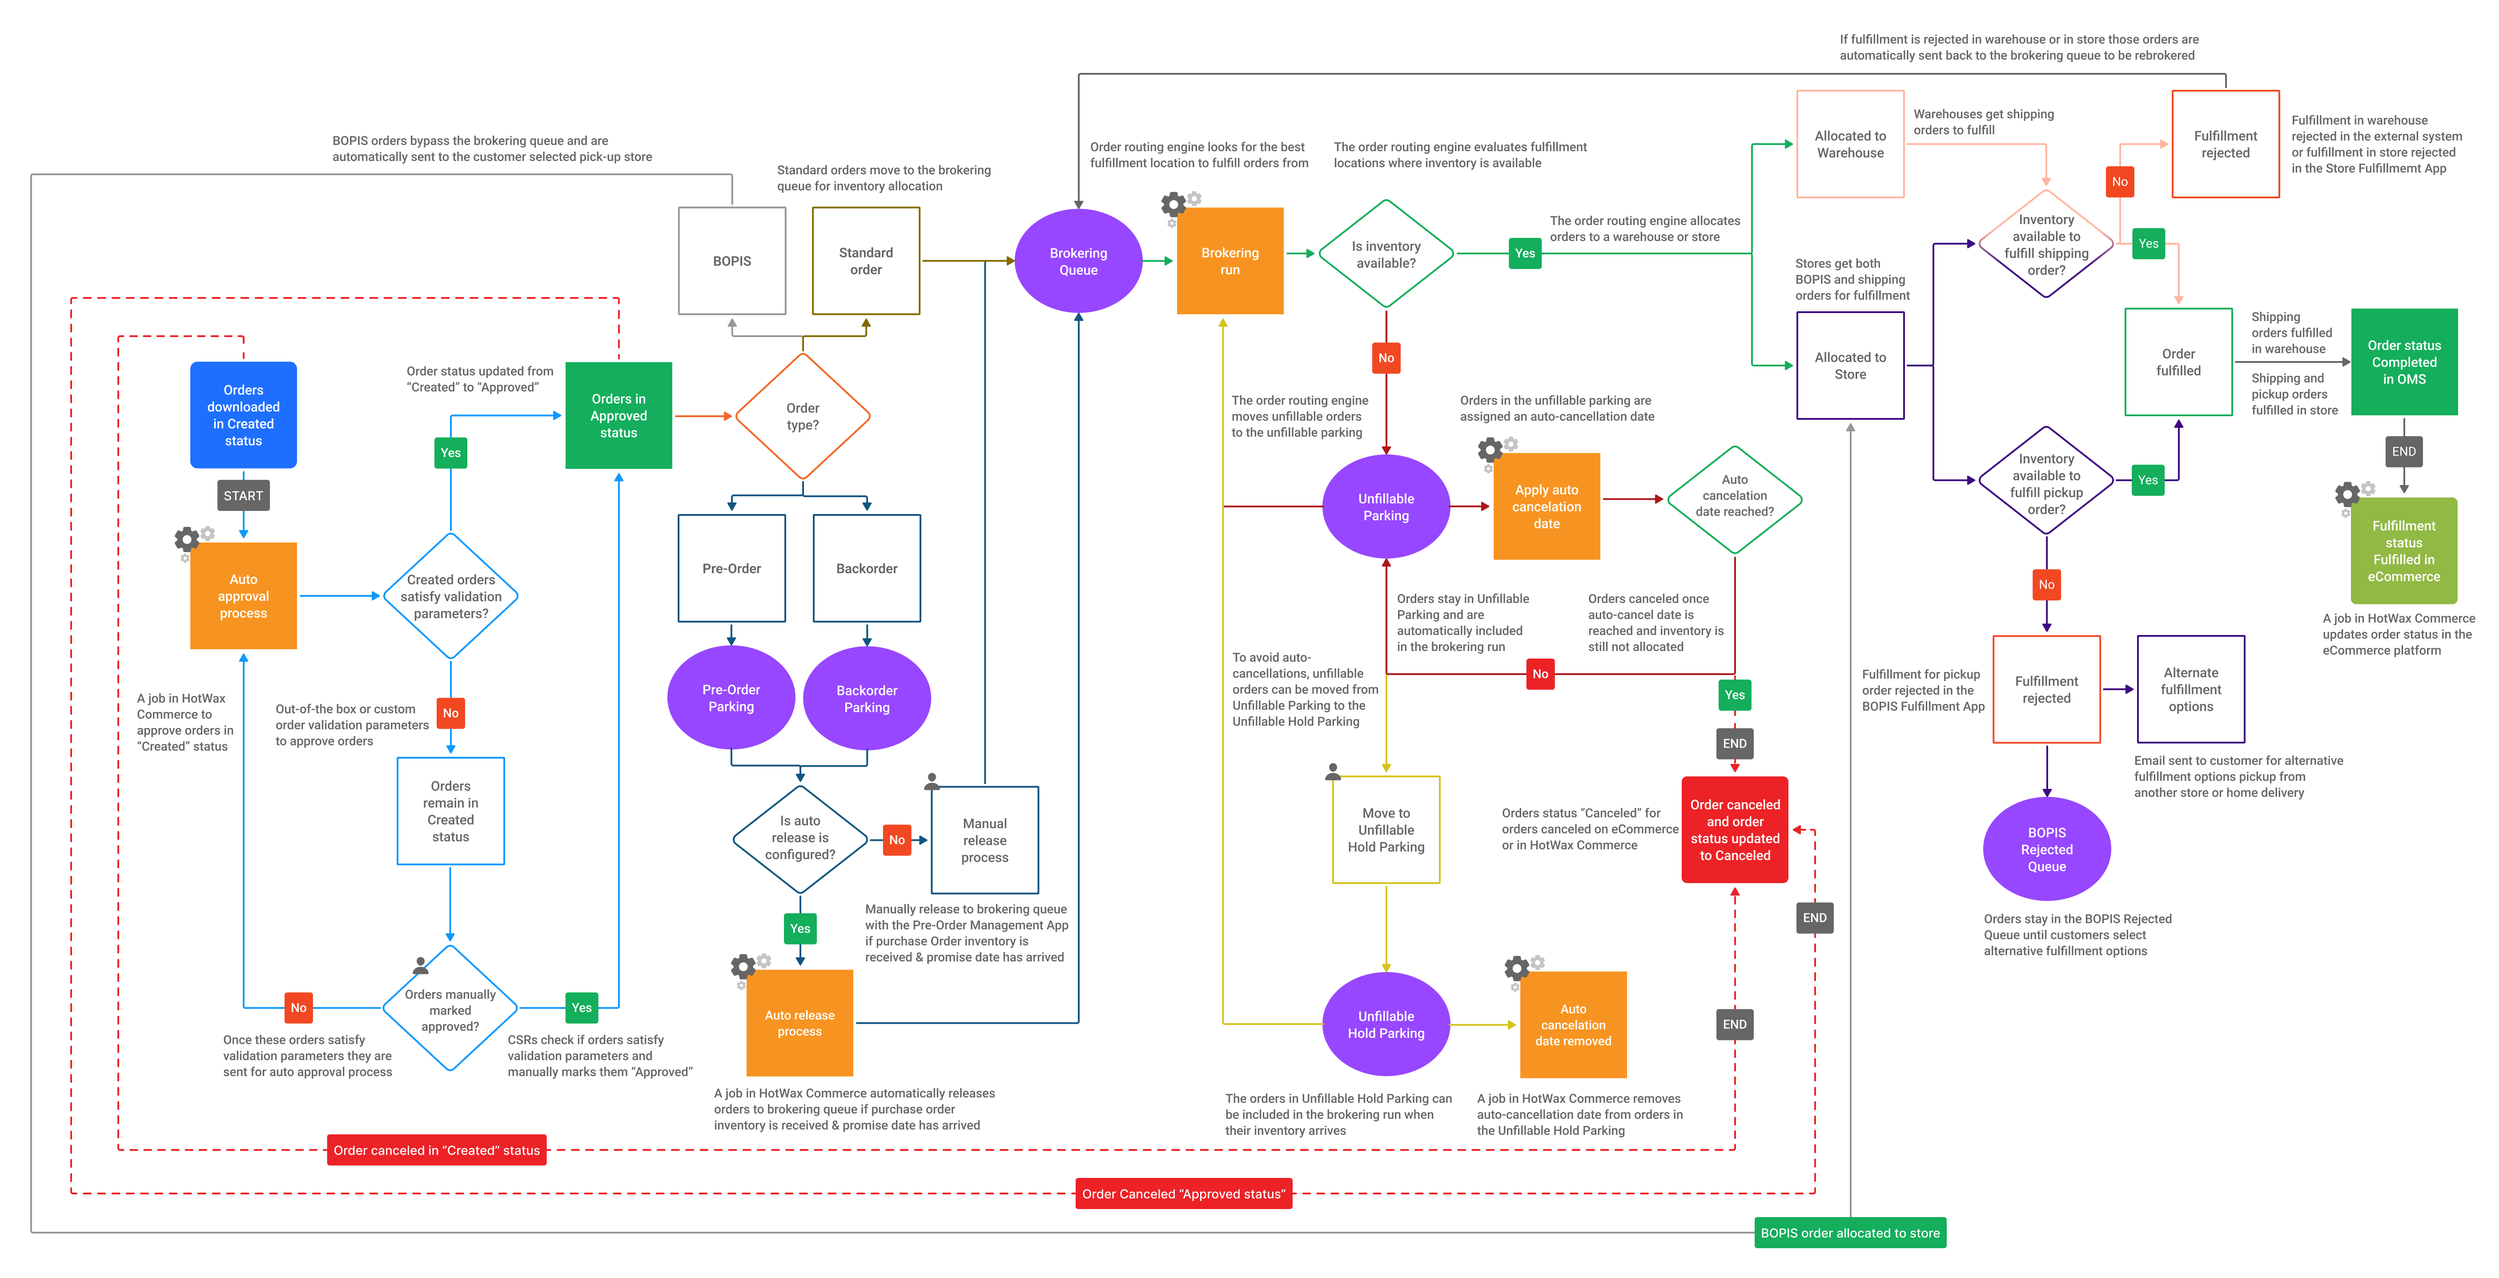
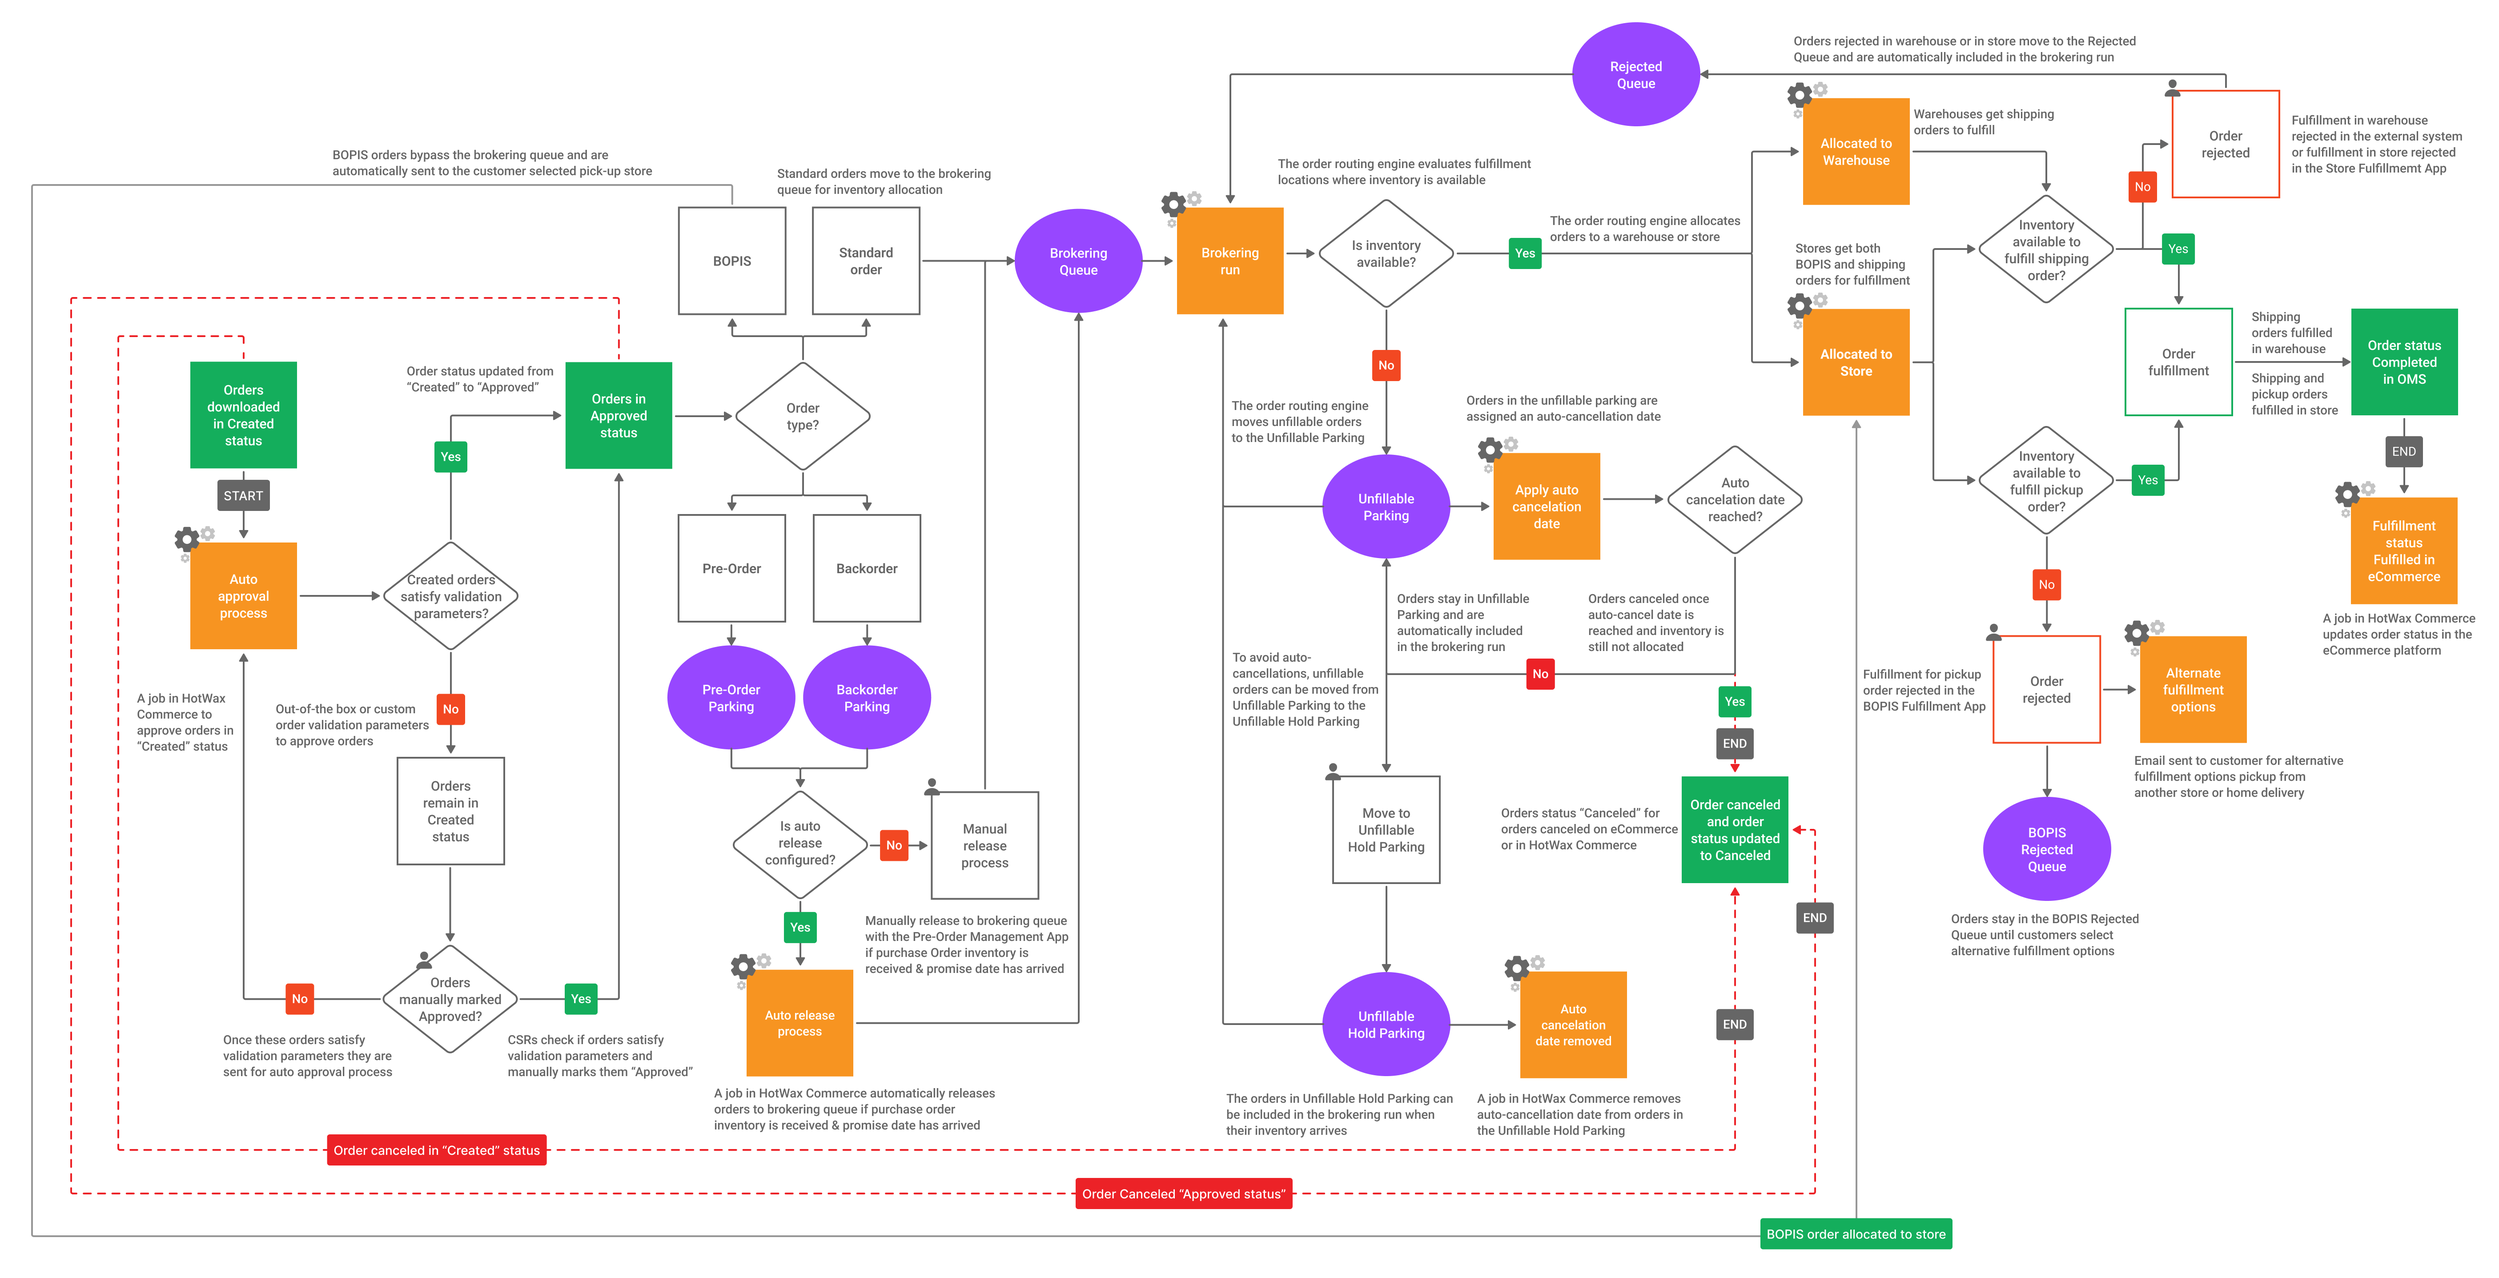
GITBOOK-237: updates order lifecycle image

diff --git a/user-manuals/SUMMARY.md b/user-manuals/SUMMARY.md
@@ -46,31 +46,31 @@
 * [Order management](orders/order-management/README.md)
   * [Find Sales orders](orders/order-management/find-sales-orders.md)
   * [View Order Details](orders/order-management/view-order-details.md)
-  * [Update orders](orders/order-management/update-sales-order.md)
-  * [Allocation](orders/order-management/allocate-sales-order.md)
-  * [Soft allocation](orders/order-management/soft-allocations.md)
+  * [Update orders](orders/order-management/update-orders.md)
+  * [Allocation](orders/order-management/allocation.md)
+  * [Soft allocation](orders/order-management/soft-allocation.md)
   * [Reports](orders/order-management/reports.md)
-* [BOPIS Fulfillment App](bopis/README.md)
-  * [Orders Page](orders/bopis/appnotifications/README.md)
-    * [Notifications](orders/bopis/appnotifications/notifications.md)
-    * [Search Order](orders/bopis/appnotifications/search-order.md)
-    * [Open Order Tab](orders/bopis/appnotifications/open-order-tab.md)
-  * [Order Details Page](orders/bopis/order-details-page/README.md)
-    * [View Order Item Rejection History](orders/bopis/order-details-page/view-order-item-rejection-history.md)
-  * [Packed Order Tab](orders/bopis/packed-order-tab.md)
-  * [Completed Orders Tab](orders/bopis/completed-orders-tab.md)
-  * [Ship to Store](orders/bopis/ship-to-store.md)
-  * [Catalog Page](orders/bopis/catalog-page.md)
-  * [Settings Page](orders/bopis/settings-page.md)
+* [BOPIS Fulfillment App](orders/bopis-fulfillment-app/README.md)
+  * [Orders Page](orders/bopis-fulfillment-app/orders-page/README.md)
+    * [Notifications](orders/bopis-fulfillment-app/orders-page/notifications.md)
+    * [Search Order](orders/bopis-fulfillment-app/orders-page/search-order.md)
+    * [Open Order Tab](orders/bopis-fulfillment-app/orders-page/open-order-tab.md)
+  * [Order Details Page](orders/bopis-fulfillment-app/order-details-page/README.md)
+    * [View Order Item Rejection History](orders/bopis-fulfillment-app/order-details-page/view-order-item-rejection-history.md)
+  * [Packed Order Tab](orders/bopis-fulfillment-app/packed-order-tab.md)
+  * [Completed Orders Tab](orders/bopis-fulfillment-app/completed-orders-tab.md)
+  * [Ship to Store](orders/bopis-fulfillment-app/ship-to-store.md)
+  * [Catalog Page](orders/bopis-fulfillment-app/catalog-page.md)
+  * [Settings Page](orders/bopis-fulfillment-app/settings-page.md)
 * [Fulfillment](orders/fulfillment/README.md)
-  * [Ship Orders](fulfillment/shipOrders.md)
-  * [Rejection](fulfillment/rejection.md)
-  * [Picking App](fulfillment/pickingApp.md)
-  * [CSV Support](fulfillment/csvSupport.md)
-  * [Settings Page](fulfillment/fulfillment-setting-page.md)
-  * [Reports](fulfillment/reports.md)
-  * [Create Shipping Boxes](fulfillment/shipping-box.md)
-  * [Create Pickers](fulfillment/add-picker.md)
+  * [Ship Orders](orders/fulfillment/ship-orders.md)
+  * [Rejection](orders/fulfillment/rejection.md)
+  * [Picking App](orders/fulfillment/picking-app.md)
+  * [CSV Support](orders/fulfillment/csv-support.md)
+  * [Settings Page](orders/fulfillment/settings-page.md)
+  * [Reports](orders/fulfillment/reports.md)
+  * [Create Shipping Boxes](orders/fulfillment/create-shipping-boxes.md)
+  * [Create Pickers](orders/fulfillment/create-pickers.md)
 * [Brokering](orders/brokering/README.md)
   * [Order Routing](brokering/configurableRouting.md)
   * [Rule Builder](brokering/rule-builder.md)
@@ -92,22 +92,22 @@
 
 * [Inventory Management](inventory/inventory-management/README.md)
   * [Find Product Inventory](inventory/inventory-management/find-product-inventory.md)
-  * [Product Inventory View Page](inventory/inventory-management/product-inventory-view.md)
+  * [Product Inventory View Page](inventory/inventory-management/product-inventory-view-page.md)
   * [Inventory Configurations](inventory/inventory-management/inventory-configurations.md)
 * [Receiving](inventory/receiving/README.md)
-  * [Inventory Receiving](receiving/receiving.md)
-  * [Reports](receiving/reports.md)
+  * [Inventory Receiving](inventory/receiving/inventory-receiving.md)
+  * [Reports](inventory/receiving/reports.md)
 * [Cycle counting](inventory/cycle-counting/README.md)
-  * [Inventory count](inventory-count/inventory-count.md)
-  * [Reports](inventory-count/reports.md)
+  * [Inventory count](inventory/cycle-counting/inventory-count.md)
+  * [Reports](inventory/cycle-counting/reports.md)
 * [Inventory upload](import-app/inventory.md)
 * [Safety stock](inventory/safety-stock/README.md)
   * [Set Bulk Safety Stock](inventory/safety-stock/set-bulk-safety-stock.md)
   * [Set Individual Safety Stock](inventory/safety-stock/set-individual-safety-stock.md)
 * [Multichannel inventory setup](inventory/multichannel-inventory-setup.md)
-* [Transfer orders](inventory/transfer-order/transfer-order-management.md)
-  * [Transfer order fulfillment](inventory/transfer-order/transfer-order-fulfillment.md)
-  * [Transfer order receiving](inventory/transfer-order/transfer-order-receiving.md)
+* [Transfer orders](inventory/transfer-orders/README.md)
+  * [Transfer order fulfillment](inventory/transfer-orders/transfer-order-fulfillment.md)
+  * [Transfer order receiving](inventory/transfer-orders/transfer-order-receiving.md)
 * [Reports](inventory/reports.md)
 
 ## Administration
@@ -139,10 +139,6 @@
 ## How-to documents
 
 * [How to configure HotWax Commerce when deploying new instance](how-to/deployment/deployment.md)
-* [How to map shipping method in HotWax Commerce to Netsuite](how-to/add-shipping-method.md)
+* [How to map shipping method in HotWax Commerce to Netsuite](how-to-documents/how-to-map-shipping-method-in-hotwax-commerce-to-netsuite.md)
 * [How to configure BOPIS with HotWax Commerce and Shopify](how-to/bopis/implement-bopis.md)
 * [How to manage order cancellations](how-to/order-cancellations.md)
-
-
-
- 

diff --git a/user-manuals/inventory/receiving/reports.md b/user-manuals/inventory/receiving/reports.md
@@ -4,33 +4,5 @@ description: >-
   alignment between expected and received quantities.
 ---
 
-# Receiving Reports
+# Reports
 
-## Discrepancy Tracking for Fulfilled Transfer Orders
-
-Reports designed to meticulously monitor and manage discrepancies arising from fulfilled transfer orders. In essence, it serves as a comprehensive oversight tool to ensure the actual receipt aligns accurately with the expected shipped quantities.
-
-## Receiving Discrepancy report
-
-Monitor and identify discrepancies at facilities where the actual receipt does not align with the expected shipped amount. This systematic approach allows for a meticulous tracking of fulfilled transfer orders, ensuring that the actual receipt quantities are in sync with the expectations. Facilities reporting higher discrepancies are strategically prioritized, enabling a focused investigation into potential issues.
-
-**In case of NetSuite**
-
-In the context of NetSuite, this monitoring system becomes particularly beneficial. By aligning the actual receipt with the expected shipped amount from NetSuite for fulfilled transfer orders, organizations gain a targeted insight into the accuracy of their inventory management.
-
-**User:** Operations team
-
-| Field                     | Detials                                                           |
-| ------------------------- | ----------------------------------------------------------------- |
-| Shipment\_Id              | The ID of the shipment in external system                         |
-| HotWax\_Shipment\_Id      | The ID of the shipment in HotWax                                  |
-| Transfer\_Order           | The ID of the transfer order in external system                   |
-| SKU                       | Unique identifier                                                 |
-| Origin\_Facility\_Id      | The ID of the origin facility where the shipment originates       |
-| Origin\_Facility          | The name of the facility where the shipment originates            |
-| Destination\_Facility\_Id | The ID of the destination facility where the shipment is destined |
-| Destination\_Facility     | The name of the facility where the shipment is destined           |
-| Expected                  | Quantity expected to be shipped                                   |
-| Recieved                  | Quantity actually received                                        |
-| Difference                | Variance between expected and actual quantities                   |
-| Status                    | Current status of the shipment                                    |

diff --git a/user-manuals/how-to/deployment/deployment.md b/user-manuals/how-to/deployment/deployment.md
@@ -54,7 +54,7 @@ Solr, an open-source enterprise search platform, provides powerful search capabi
 
 ## Add Shipping Gateways
 
-HotWax Commerce's Store Fulfillment App empowers retailers to efficiently manage online order fulfillment from their stores. By integrating with multiple Third-Party Logistics companies, known as Carriers, HotWax Commerce enables the generation of shipping labels based on store and customer addresses, as well as package weight and dimensions. Each Carrier offers a Shipping Gateway software system, facilitating the request for shipment quotations and labels during the fulfillment process. [Read our document](https://docs.hotwax.co/deployment-and-configurations/user-and-gateway-configuration/shippinggateways) to learn how to set up shipping carriers, shipping methods, and integration with the shipment gateway, ensuring a streamlined and cost-effective order fulfillment process. Users are also required to add [shipping boxes](../../fulfillment/shipping-box.md) to ensure precise shipping cost calculation and accurate label generation.
+HotWax Commerce's Store Fulfillment App empowers retailers to efficiently manage online order fulfillment from their stores. By integrating with multiple Third-Party Logistics companies, known as Carriers, HotWax Commerce enables the generation of shipping labels based on store and customer addresses, as well as package weight and dimensions. Each Carrier offers a Shipping Gateway software system, facilitating the request for shipment quotations and labels during the fulfillment process. [Read our document](https://docs.hotwax.co/deployment-and-configurations/user-and-gateway-configuration/shippinggateways) to learn how to set up shipping carriers, shipping methods, and integration with the shipment gateway, ensuring a streamlined and cost-effective order fulfillment process. Users are also required to add [shipping boxes](broken-reference) to ensure precise shipping cost calculation and accurate label generation.
 
 {% embed url="https://youtu.be/hYXo7992SWQ" %}
 

diff --git a/user-manuals/business-process-models/orderlifecycle.md b/user-manuals/business-process-models/orderlifecycle.md
@@ -7,7 +7,7 @@ description: >-
 
 # Order lifecycle
 
-<figure><img src="../.gitbook/assets/order lifecycle bpm.png" alt=""><figcaption><p>Order lifecycle business process model</p></figcaption></figure>
+<figure><img src="../.gitbook/assets/order life cycle bpm.png" alt=""><figcaption><p>Order lifecycle business process model</p></figcaption></figure>
 
 ## Order creation
 
@@ -120,7 +120,7 @@ HotWax Commerce then checks the custom tag on orders. If the tag is present on a
 
 ### BOPIS fulfillment success and order completion:
 
-Store associates can view BOPIS orders in their [<mark style="color:orange;">**BOPIS Fulfillment App**</mark>](../bopis/) and begin preparing the order for customer pick-up.
+Store associates can view BOPIS orders in their [<mark style="color:orange;">**BOPIS Fulfillment App**</mark>](broken-reference) and begin preparing the order for customer pick-up.
 
 Once the order is prepared, customer receives an email informing them that their order is ready for pickup. After an order has been picked up by the customer, the order status is updated from <mark style="color:orange;">**“Approved” to “Completed”**</mark> in HotWax Commerce. A `Completed Orders` job in HotWax Commerce also marks orders as <mark style="color:orange;">**"Fulfilled" in eCommerce.**</mark>
 

diff --git a/user-manuals/business-process-models/store.fulfillment.md b/user-manuals/business-process-models/store.fulfillment.md
@@ -41,7 +41,7 @@ It's crucial to note that shipping labels are valid only when an item requires a
 
 When a picker is unable to find the item that is listed in their picklist, store managers have the authority to reject that specific item. In this scenario, its fulfillment status <mark style="color:orange;">**"Picking"**</mark> is automatically removed in HotWax Commerce.
 
-Learn more about [Rejections and their reasons](../fulfillment/rejection.md)
+Learn more about [Rejections and their reasons](../orders/fulfillment/rejection.md)
 
 ## Pack items
 

diff --git a/user-manuals/inventory/cycle-counting/reports.md b/user-manuals/inventory/cycle-counting/reports.md
@@ -1,0 +1,9 @@
+---
+description: >-
+  Gain insights into inventory status and discrepancies through detailed
+  analysis, including pending cycle counts and facility variances, for enhanced
+  operational efficiency.
+---
+
+# Reports
+

diff --git a/user-manuals/inventory/cycle-counting/inventory-count.md b/user-manuals/inventory/cycle-counting/inventory-count.md
@@ -1,0 +1,8 @@
+---
+description: >-
+  Seamlessly reconcile physical inventory with system data for precise tracking,
+  empowered by intuitive mobile scanning technology.
+---
+
+# Inventory count
+

diff --git a/user-manuals/orders/fulfillment/reports.md b/user-manuals/orders/fulfillment/reports.md
@@ -1,0 +1,8 @@
+---
+description: >-
+  Explore all the fulfillment reports that HotWax Commerce OMS offers out of the
+  box to help monitor and track your fulfillment operations.
+---
+
+# Reports
+

diff --git a/user-manuals/orders/order-management/reports.md b/user-manuals/orders/order-management/reports.md
@@ -1,0 +1,8 @@
+---
+description: >-
+  Discover how reports play a crucial role in ensuring order synchronization
+  across Shopify, HotWax, and NetSuite.
+---
+
+# Reports
+

diff --git a/user-manuals/orders/fulfillment/rejection.md b/user-manuals/orders/fulfillment/rejection.md
@@ -1,0 +1,8 @@
+---
+description: >-
+  If the order item inventory is exhausted or damaged, report the reason and
+  reject the item.
+---
+
+# Rejection
+

diff --git a/user-manuals/orders/order-management/README.md b/user-manuals/orders/order-management/README.md
@@ -1,0 +1,6 @@
+---
+description: Discover the processes related to managing orders in HotWax Commerce OMS.
+---
+
+# Order management
+

diff --git a/user-manuals/how-to-documents/how-to-map-shipping-method-in-hotwax-commerce-to-netsuite.md b/user-manuals/how-to-documents/how-to-map-shipping-method-in-hotwax-commerce-to-netsuite.md
@@ -1,0 +1,2 @@
+# How to map shipping method in HotWax Commerce to Netsuite
+
